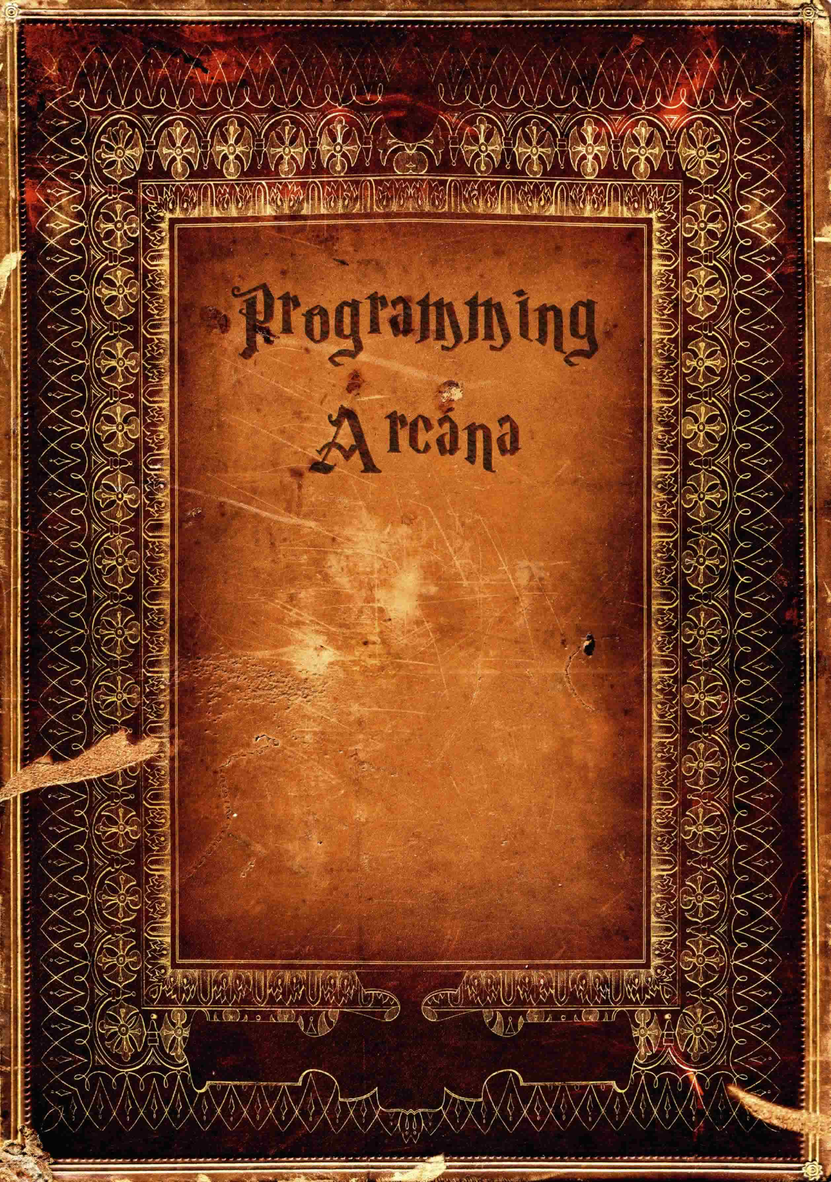
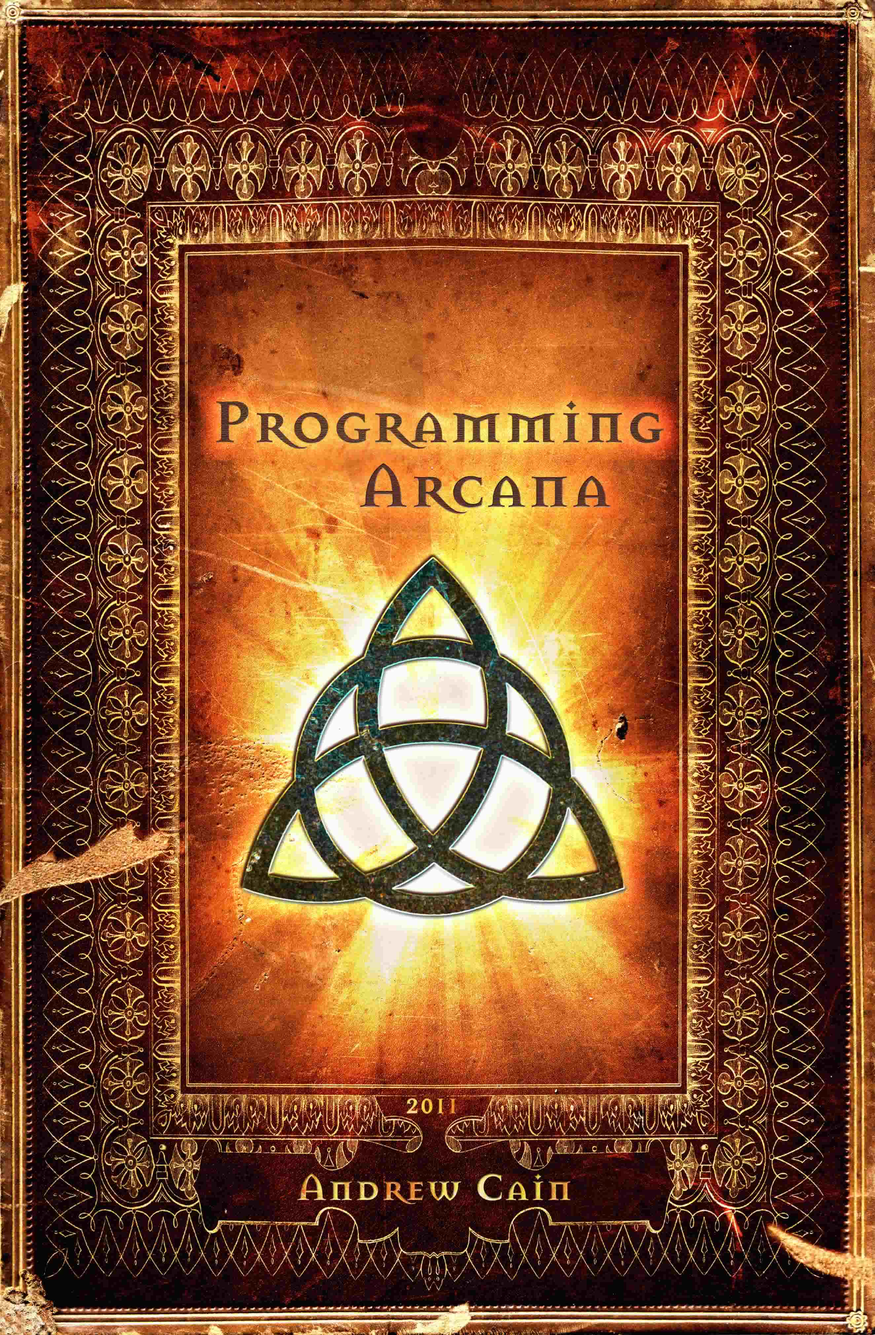
Added front cover, Work on DropCap

diff --git a/topics/programs-and-compilers/compilers.tex b/topics/programs-and-compilers/compilers.tex
@@ -6,7 +6,7 @@
   \Fontlukas\Large
   \renewcommand{\LettrineTextFont}{\relax}
   \renewcommand{\LettrineFontHook}{\color{red}}
-  \lettrine[image=true,lines=3,lhang=.2, loversize=.25, findent=0.1em]
+  \lettrine[image=true,lines=1,lhang=.2, loversize=.25, findent=0.1em]
   {W}{elcome} neophyte! So you seek to master the art of Magic? To work magic you must learn the structure of incantations, and how to use a wand to convert these into magic energy. 
   
   Let us begin with a simple spell, a spell that will greet the world around you! Utter these words, and wave your wand\ldots

diff --git a/programming-arcana.tex b/programming-arcana.tex
@@ -4,7 +4,7 @@
 \input{preamble/preamble}
 
 % \includeonly{topics/preface/preface}
-% \includeonly{topics/programs-and-compilers/compilers}
+ \includeonly{topics/programs-and-compilers/compilers}
 % \includeonly{topics/program-creation/program-creation}
 % \includeonly{topics/procedure-decl/procedure-decl}
 % \includeonly{topics/storing-using-data/storing-using-data}
